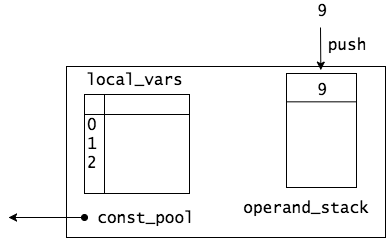
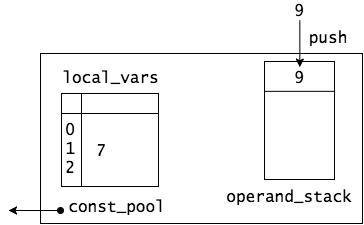
some corrections to post birth of a stackframe: fix broken link fix pic to show 7 on local vars array of stack frame more explanation fix some spelling/grammatical errors

Changed region(s): [[0.0, 0.0, 1.0, 0.9956], [0.6044, 0.84, 0.967, 0.9022]]

diff --git a/_posts/2017-10-27-the-birth-of-a-stackframe.md b/_posts/2017-10-27-the-birth-of-a-stackframe.md
@@ -24,7 +24,7 @@ The opcodes for a method act on an object called a *frame*. A frame is the execu
 The parts of the stack frame are as follows
 
 * local_vars - an array holding the local variables for the method, i.e. any arguments passed to the method or variables declared within the method.
-* operand_stack - a last in first out (LIFO) data structure that is the workspace for the method
+* operand_stack - a last in first out (LIFO) data structure that is the working memory for the instructions of a method. The operand stack is like a CPU register that behaves like a stack.
 * const_pool - a reference to the the *run-time constant pool* of the class that owns this method...more on this later
 
 Here's a concrete example: Suppose we have some Java code inside of a method that looks like
@@ -42,17 +42,41 @@ push 7 onto operand stack
 
 ![](/images/birth-of-a-stack-frame/3.png)
 
-pop from operand_stack and store into the local_vars array at index 1 (symbolically referenced by a)
+pop from operand_stack and store into the local_vars array at index 1.
 
 ![](/images/birth-of-a-stack-frame/4.png)
+
+These two operations constitute the execution of the line
+
+```java
+int a = 7;
+```
+
+Similarly,
+
+```java
+int b = 9;
+```
+
+is executed as:
 
 push 9 onto operand stack
 
 ![](/images/birth-of-a-stack-frame/5.png)
 
-pop from operand_stack and store into the local_vars array at index 2 (symbolically referenced by b)
+pop from operand_stack and store into the local_vars array at index 2
 
 ![](/images/birth-of-a-stack-frame/6.png)
+
+It's clear now that the variable names a, b are irrelevant to the JVM. They are just two different local variables holding int values. That's all the JVM needs to know.
+
+The execution of
+
+```java
+int i = a + b;
+```
+
+proceeds as follows:
 
 load local_vars[1] onto operand_stack
 
@@ -62,7 +86,7 @@ load local_vars[2] onto operand_stack
 
 ![](/images/birth-of-a-stack-frame/8.png)
 
-call add instruction (this pops 7,9 from the operand_stack, adds them, and pushes the result back onto the stack)
+call `iadd` instruction (this pops 7,9 from the operand_stack, adds them, and pushes the result back onto the stack)
 
 ![](/images/birth-of-a-stack-frame/9.png)
 
@@ -79,7 +103,7 @@ push 9 onto the operand_stack
 store the latest value from operand_stack into local_vars[2] (symbolically b)
 load local_vars[1] onto operand_stack
 load local_vars[2] onto operand_stack
-add
+iadd
 store latest value from operand_stack into a local_vars[3] (symbolically i)
 ```
 
@@ -106,15 +130,15 @@ To see how new methods are invoked, let's go back to our example and suppose the
 
 ![](/images/birth-of-a-stack-frame/1.png)
 
-The opcode 0xb6 stands for `invokevirtual` and is responsible for invoking a method. The two bytes immediately following the opcode are used to build and index into the run-time constant pool table. This is how it works.
+The opcode 0xb6 represents the `invokevirtual` instruction, which is responsible for invoking a method. The two bytes immediately following the opcode are used to build an index into the run-time constant pool table. This is how it works.
 
-First, the operand stack of the stack frame corresponding to the current method is prepared with the object reference to call the method on (obj_ref) and the arguments of the method (let's say arg1, arg2):
+First, the operand stack of the stack frame corresponding to the current method is prepared with the object reference to call the method on and the arguments of the method:
 
 ![](/images/birth-of-a-stack-frame/11.png)
 
-This the responsibility of all the bytes coming before 0xb6.
+This the responsibility of all the bytes coming before 0xb6. In the diagram above, those bytes would have pushed `arg2`, `arg1`, and then `obj_ref` onto the operand stack, probably using `load` instructions.
 
-Then the JVM encounters the `invokevirtual` opcode 0xb6. The two bytes following the opcode, 0x00 and 0x16, are embedded operands of the opcode that the JVM will use to lookup the method from the constant pool table.
+Then the JVM encounters the `invokevirtual` opcode 0xb6. The two bytes following the opcode, 0x00 and 0x16, are *embedded* operands of the opcode that the JVM will use to lookup the method from the constant pool table. We call them embedded operands because they are arguments of the opcode embedded in the bytecode stream.
 
 ![](/images/birth-of-a-stack-frame/12.png)
 
@@ -122,7 +146,7 @@ It takes the bytes 0x00 and 0x16, concatenates them to get 0x0016 which in decim
 
 ![](/images/birth-of-a-stack-frame/13.png)
 
-Now the symbolic reference that lives at index 22 is 'resolved'. What does this mean? The symbolic reference is a data structure that is defined in the JVM spec, and references a method abstractly. When the class that contains our `current_method` was compiled, it didn't know what method would actually be invoked at run-time because there is no way it could know what the JVM would have on its class path. Method resolution is the process the JVM uses to find the *actual* method to invoke, which at the end of the day, means that there is a new stream of byte codes the JVM will hand control to:
+Now the item in the constant pool table that lives at row 22 will be a *symbolic reference* to a method. What does this mean? The symbolic reference is a data structure that is defined in the JVM spec, and references a method abstractly. When the class that contains our `current_method` was compiled, it didn't know what method would actually be invoked at run-time because there is no way it could know what the JVM would have on its class path. Method resolution is the process the JVM uses to find the *actual* method to invoke, which at the end of the day, means that there is a new stream of byte codes the JVM will hand control to:
 
 ![](/images/birth-of-a-stack-frame/14.png)
 
@@ -136,8 +160,9 @@ Finally, the program counter `pc` is set to point to the first instruction in th
 
 ![](/images/birth-of-a-stack-frame/16.png)
 
-# Conclusion
+# Summary
+The JVM starts your program by starting execution at the `main` method. From here different methods are invoked, and for each method a new stack frame is allocated. The `pc` just dances around different sequences of instructions represented as bytes, which perform operations on the current frame. If you can imagine all of this at work in your head, you are most of the way there to understanding most of what the JVM does.
 
 That's it! I hoped you enjoyed this post. Stay tuned for my next post where we will discuss how methods return.
 
-**Note: This post was written for [Toptal](www.toptal.com) to express my interest in joining the Software Developers Group**.
+**Note: This post was written for [Toptal](http://www.toptal.com) to express my interest in joining the Software Developers Group**.
